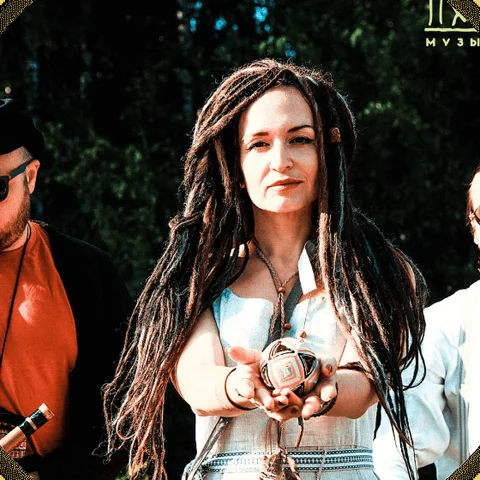
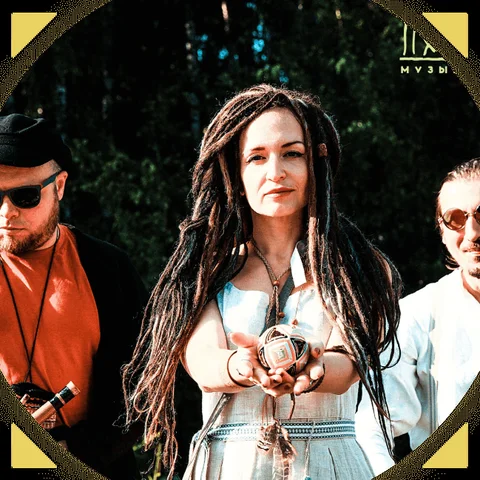
«Уже выступали»: перекадрированы фото из карточек старого сайта – головы целиком

diff --git a/fs.js b/fs.js
@@ -9,7 +9,7 @@
   'use strict';
 
   // Меняется при каждом обновлении данных: по нему сбрасывается кэш JSON и MD
-  var VERSION = '2026.10.25-12';
+  var VERSION = '2026.10.25-13';
 
   if (window.FestSun) { window.FestSun.scan(); return; }
 
